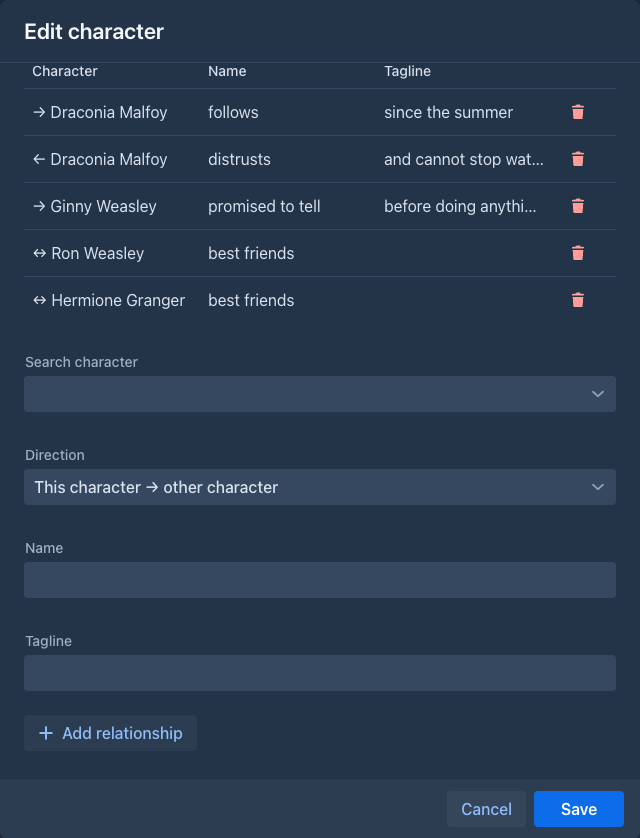
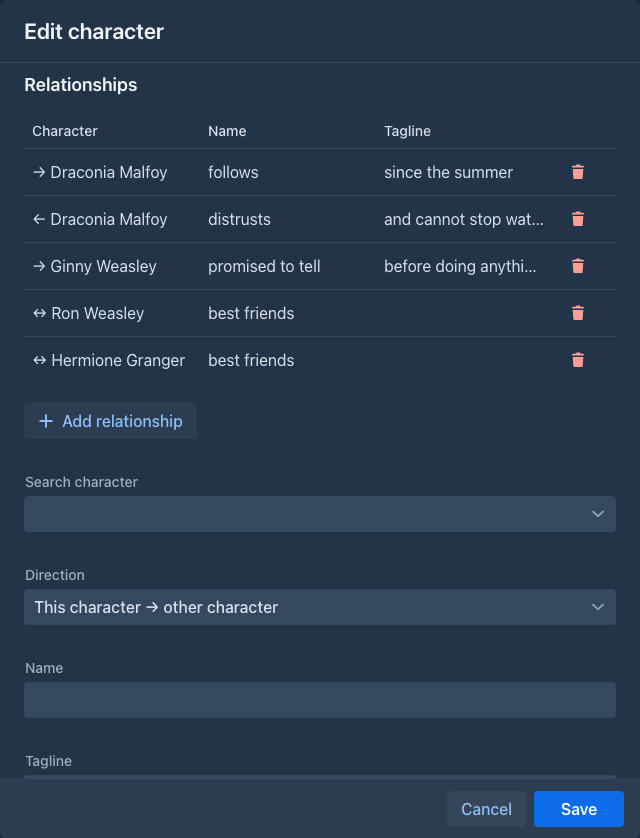
Retake the Side Query and Character dialog pictures, add the unsaved changes picture, drop the fixed Reviewer warning

diff --git a/screenshots/SCREENSHOTS.md b/screenshots/SCREENSHOTS.md
@@ -143,7 +143,7 @@ characters... would show in the outline, the prompt and the token numbers of the
 | `shoot-lorebook-tab` | `13-db-backup` | the read only *Lorebook* tab of the story editor with two entries opened: `story-lorebook-tab` |
 | `shoot-phone` | `13-db-backup` | the phone layout (Chrome as a phone: 402x874, touch, mobile user agent) and the viewer |
 | `shoot-extra --only <part>` | a **copy** of `13-db-backup`, discarded | `language` (selector, Japanese), `quick-start` (a new book, an error of the model), `context-warning`, `verification` (a patched plugin, a stopped one) |
-| `shoot-plugin-characters` | `21-chaptermarker` | Character Tracker: list, dialog, map (2x pixel ratio), import dialog |
+| `shoot-plugin-characters` | `21-chaptermarker` | Character Tracker: list, dialog, the question when a changed dialog is cancelled, map (2x pixel ratio), import dialog |
 | `plugin-googlegenai` | a **copy** of `13-db-backup`, discarded | installs the Google Gemini JAR, adds a provider of the type *Extension* (nothing is sent to Google): `plugin-googlegenai-type`, `plugin-googlegenai`, `plugin-googlegenai-list` |
 | `shoot-invalid-extensions` | a **copy** of `13-db-backup`, discarded | the Author's Note JAR is replaced by the broken one (`bin/make-broken-plugin.py`) and its `.valid` report deleted before the start (the block in `bin/shoot-all.sh`): the red bar, `invalid-extensions-warning` |
 | `shoot-tabs` | a **copy** of `22-arcoutline`, discarded | drags *Side Query* under the other tabs and *Characters* into a column of its own (the arrangement is saved with the book): `story-editor-tabs` |

diff --git a/manual/user/extensions/character-tracker.md b/manual/user/extensions/character-tracker.md
@@ -41,10 +41,14 @@ Characters are saved with the book as soon as you change them, so they are inclu
 | **Icon** | Upload a PNG, JPEG or GIF. It is scaled down to at most 200 x 200 pixels, the proportions are kept. |
 | **Color** | Background of the character in the list and in the map. |
 
-The fields are applied with **Save**. If you press **Cancel** (or Esc) while there are unsaved changes, including a
-relationship you filled in but did not add yet, you are asked whether to discard them.
+The fields are applied with **Save**.
 
 ![A character with its relationships](../../images/plugin-charactertracker-dialog.png)
+
+If you press **Cancel** (or Esc) while there are unsaved changes, including a
+relationship you filled in but did not add yet, you are asked whether to discard them.
+
+![The question when a character with unsaved changes is cancelled](../../images/plugin-charactertracker-unsaved.png)
 
 ### Relationships
 

diff --git a/manual/user/extensions/reviewer.md b/manual/user/extensions/reviewer.md
@@ -28,12 +28,6 @@ In the review dialog:
 - *Thinking Process* shows the reasoning of [reasoning models](../inference-providers.md#reasoning-models);
 - **Close** closes the dialog.
 
-!!!warning Reopen the book after editing a part
-In the current version, the review dialog can save an older copy of the part: when the part was edited, or got a
-[summary](../books/summaries.md), after the book was opened, opening or generating a review brings back the old text
-and drops the summary. After editing or summarizing a part, close and reopen the book before reviewing it.
-!!!
-
 ## What the model gets
 
 By default the review uses the **same prompt the part was written from** (*Use standard prompt info*): the system

diff --git a/CHANGELOG.MD b/CHANGELOG.MD
@@ -124,6 +124,7 @@ The format is based on [Keep a Changelog](https://keepachangelog.com/en/1.1.0/),
 
 ### Fixed
 
+- Reviewer: the review dialog no longer saves an older copy of the part (reverting an edit or unlinking a summary made after the book was opened); it reloads the part before it reads or writes the reviews.
 - Side Query: the sidebar tab no longer shows a second scrollbar around the message list (only the messages scroll), and the options bar wraps in a narrow sidebar.
 - Saving the settings no longer writes back a copy of the user setting loaded when the tab was opened, which could undo
   a language chosen in the meantime.

diff --git a/marginalia/plugins/character-tracker/README.md b/marginalia/plugins/character-tracker/README.md
@@ -40,6 +40,8 @@ Characters without relationships are not in the map.
 
 ![A character with its relationships](../../../manual/images/plugin-charactertracker-dialog.png)
 
+![Cancelling a character with unsaved changes](../../../manual/images/plugin-charactertracker-unsaved.png)
+
 ![The relationship map](../../../manual/images/plugin-charactertracker-map.png)
 
 ![Importing characters from the lorebook](../../../manual/images/plugin-charactertracker-import.png)
